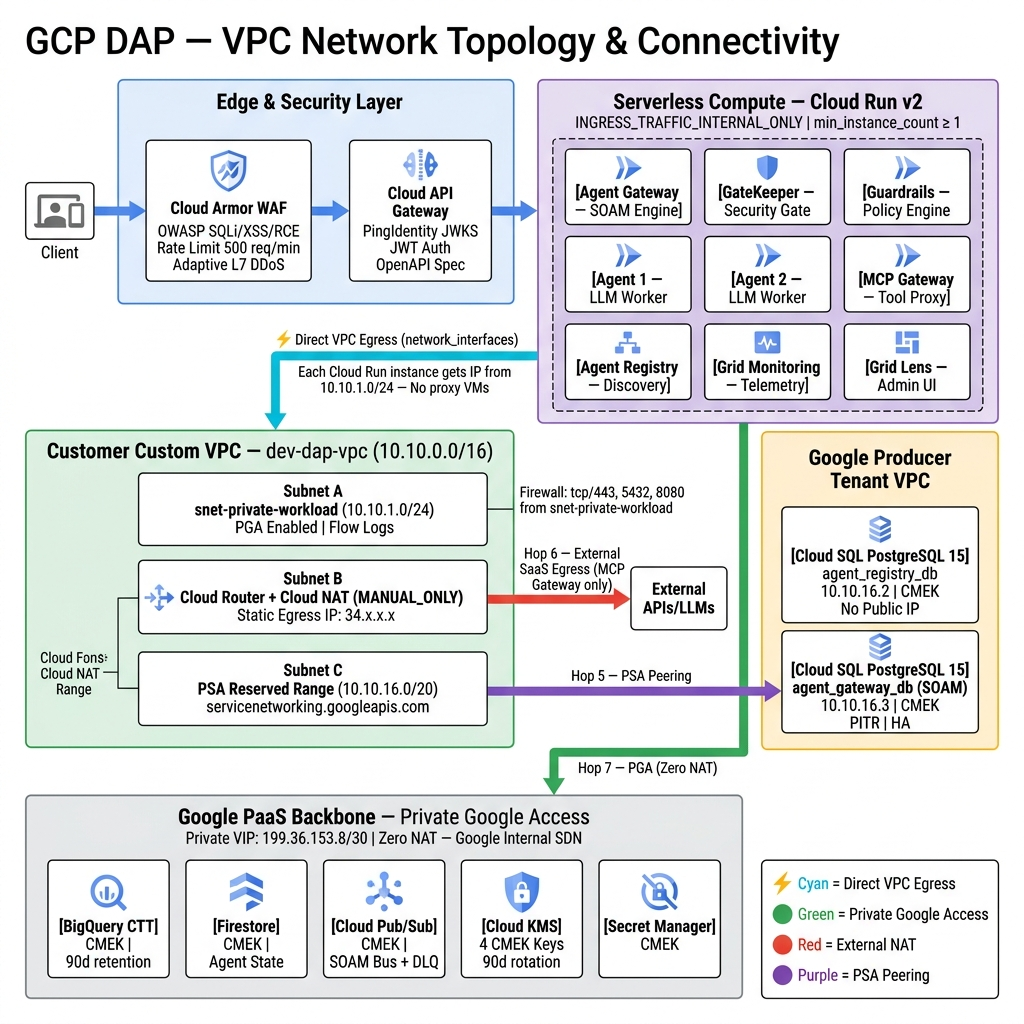
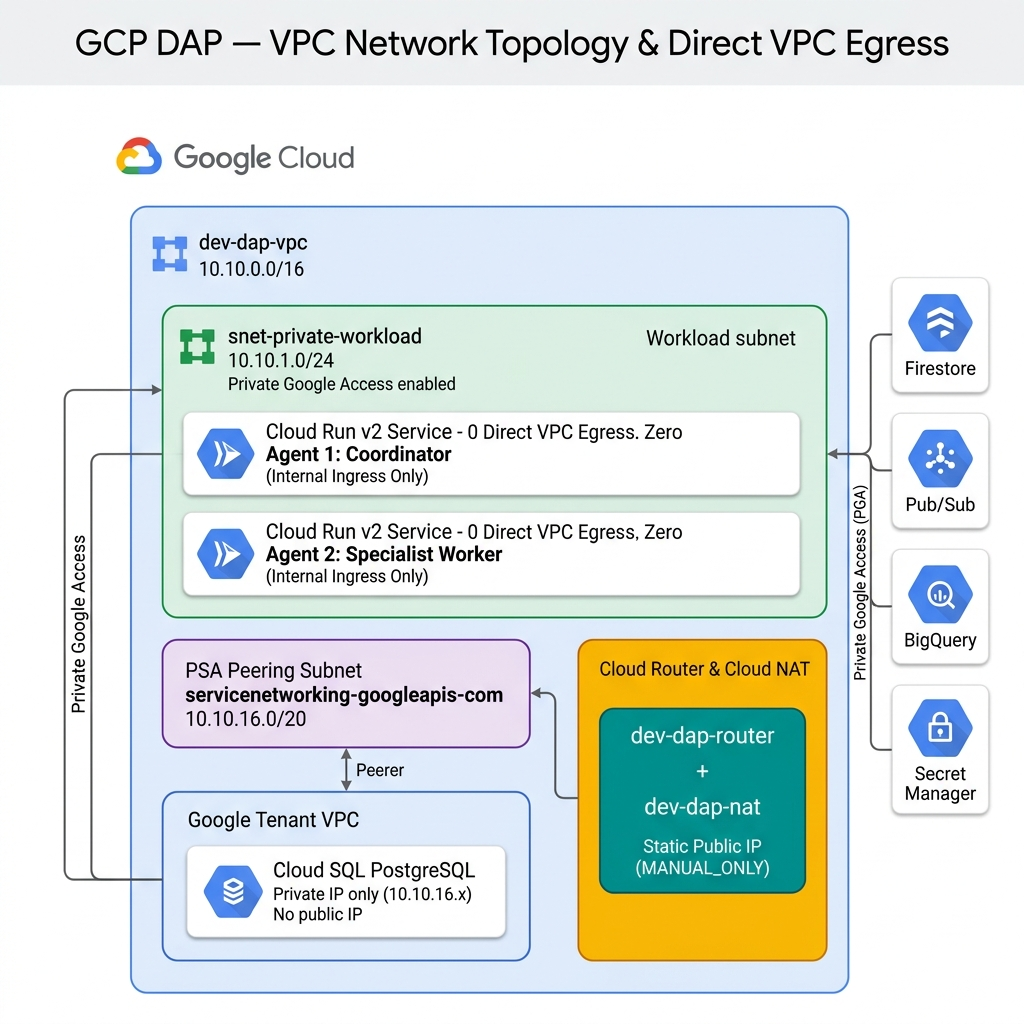
docs: refresh all architecture diagrams with white background and vibrant GCP colors for 2-agent SOAM

diff --git a/docs/RUNBOOK.md b/docs/RUNBOOK.md
@@ -109,16 +109,10 @@ locals {
   # Cloud SQL Compute Tier
   db_tier = "db-custom-2-7680"
 
-  # Cloud Run Container Image Tags
-  image_tags = {
-    agent_1         = "latest"
-    agent_2         = "latest"
-    agent_gateway   = "latest"
-    gatekeeper      = "latest"
-    mcp_gateway     = "latest"
-    guardrails      = "latest"
-    grid_monitoring = "latest"
-    grid_lens       = "latest"
+  # SOAM Agent Container Images in Google Artifact Registry
+  container_images = {
+    "agent-1" = "europe-west1-docker.pkg.dev/YOUR_GCP_DEV_PROJECT_ID/cloud-run-source-deploy/dev-dap-agent-1:latest"
+    "agent-2" = "europe-west1-docker.pkg.dev/YOUR_GCP_DEV_PROJECT_ID/cloud-run-source-deploy/dev-dap-agent-2:latest"
   }
 }
 ```
@@ -231,16 +225,16 @@ Run the included automated verification script to validate all 7 layers (VPC, KM
 PROJECT_ID="YOUR_GCP_PROJECT_ID"
 REGION="europe-west1"
 
-# 1. Verify Cloud Run Microservices (9 services)
+# 1. Verify Cloud Run Microservices (Agent 1 Coordinator & Agent 2 Worker)
 gcloud run services list --project="${PROJECT_ID}" --region="${REGION}"
 
-# 2. Verify Direct VPC Egress configuration on Cloud Run
-gcloud run services describe dev-dap-agent-gateway \
+# 2. Verify Direct VPC Egress configuration on Agent 1 & Agent 2
+gcloud run services describe dev-dap-agent-1 \
   --project="${PROJECT_ID}" \
   --region="${REGION}" \
   --format="yaml(spec.template.spec.vpcAccess,spec.template.metadata.annotations)"
 
-# 3. Verify Cloud SQL Private IP Instances (Registry + SOAM Gateway)
+# 3. Verify Cloud SQL Private IP Instance
 gcloud sql instances list --project="${PROJECT_ID}"
 
 # 4. Verify Pub/Sub SOAM Topics and DLQ
